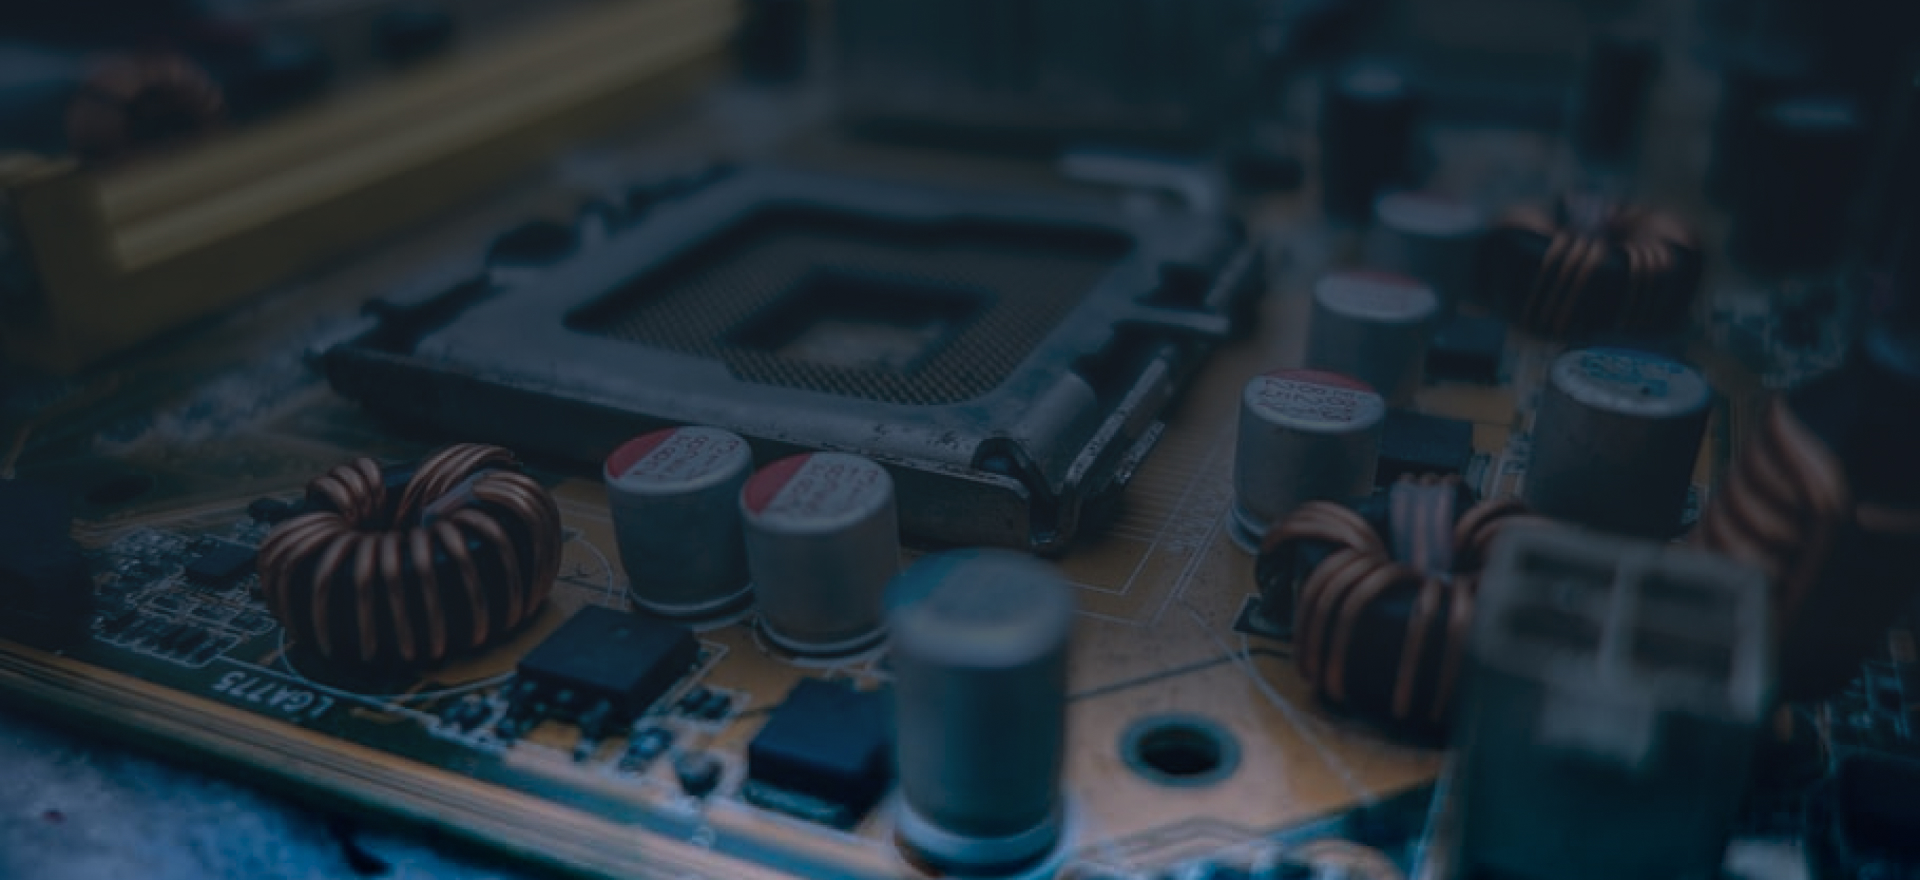
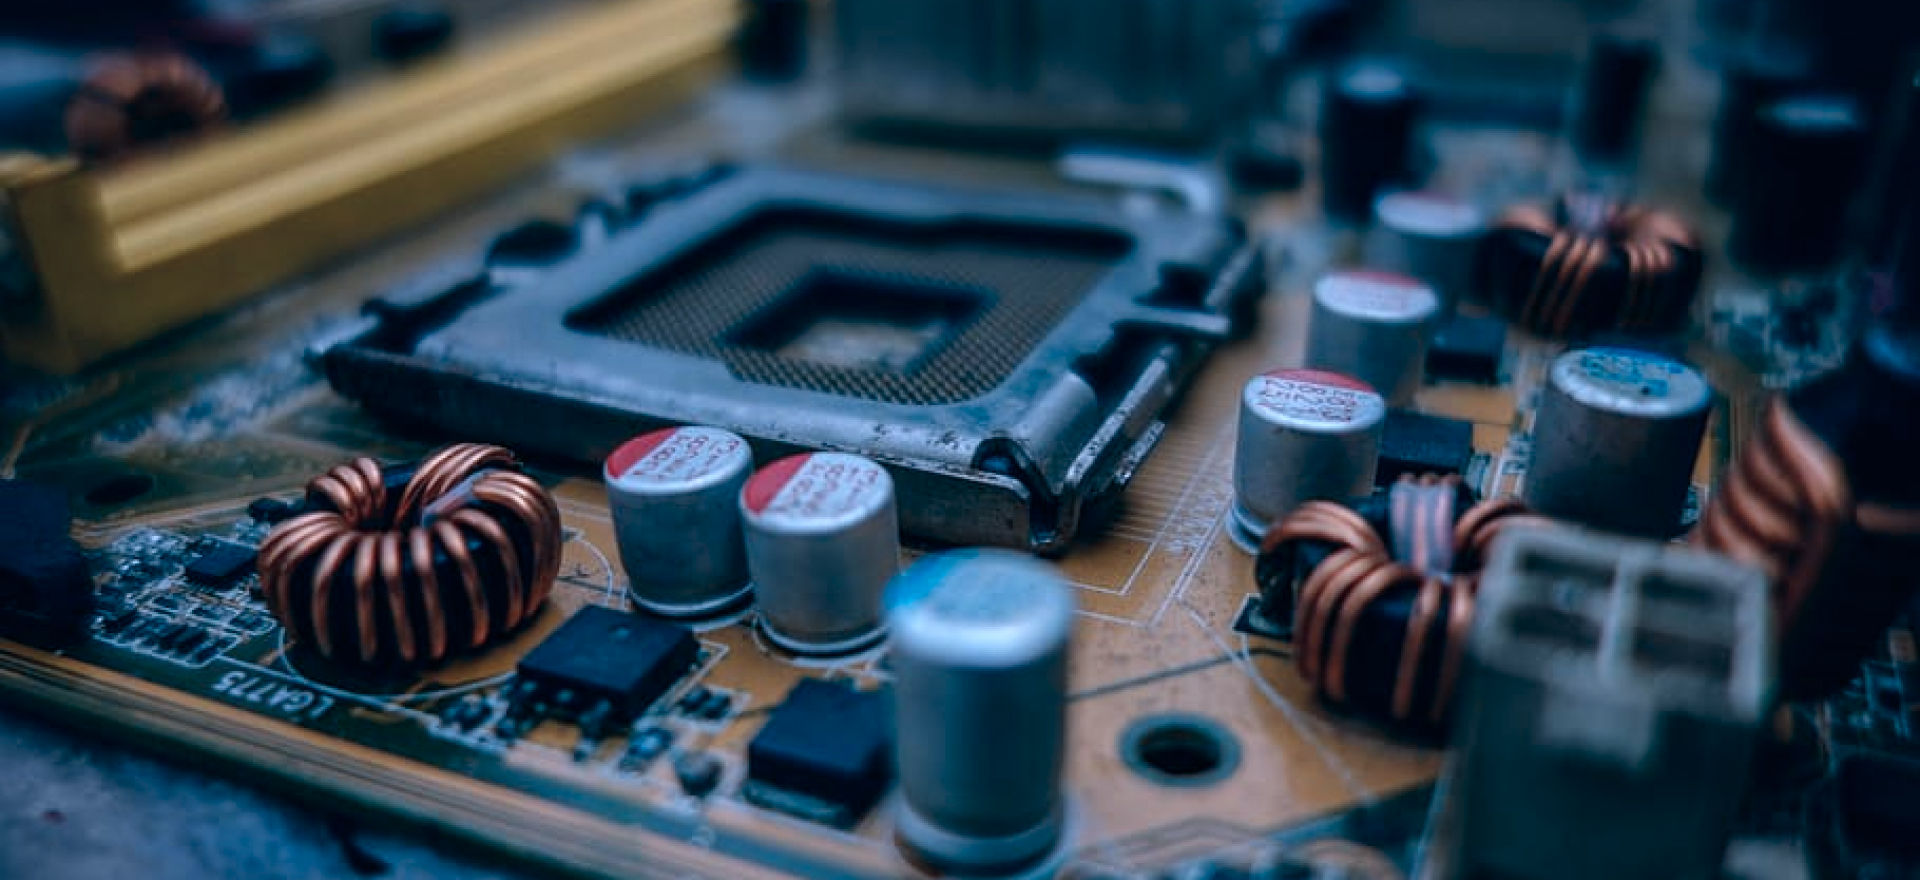
стили главного блока

diff --git a/source/sass/blocks/promo.scss b/source/sass/blocks/promo.scss
@@ -1,0 +1,91 @@
+.promo {
+  background-color: $color-black-pearl;
+  background-image: $black-pearl-promo, url("../img/back/promo-desktop.jpg");
+  background-size: cover;
+  background-repeat: no-repeat;
+  background-position: center;
+  color: $color-alice-blue;
+  padding-top: 185px;
+  padding-bottom: 280px;
+  position: relative;
+  top: -120px;
+
+  @include retina {
+    background-image: $black-pearl-promo, url("../img/back/promo-desktop@2x.jpg");
+  }
+
+  h2 {
+    margin: 0;
+    margin-bottom: 40px;
+    font-family: 'Roboto Condensed';
+    font-weight: 700;
+    font-size: 80px;
+    line-height: 94px;
+    letter-spacing: 0.07em;
+    text-transform: uppercase;
+  }
+
+  p {
+    margin: 0;
+    margin-bottom: 40px;
+    width: 680px;
+    font-size: 22px;
+    line-height: 34px;
+  }
+
+  .promo__question {
+    margin: 0;
+  }
+}
+
+@include vp-1023 {
+  .promo {
+    background-image: $black-pearl-promo, url("../img/back/promo-tablet.jpg");
+    padding-top: 180px;
+    padding-bottom: 205px;
+    top: -100px;
+    margin-bottom: -20px;
+
+    @include retina {
+      background-image: $black-pearl-promo, url("../img/back/promo-tablet@2x.jpg");
+    }
+
+    h2 {
+      margin-bottom: 20px;
+      font-size: 64px;
+      line-height: 75px;
+    }
+
+    p {
+      margin-bottom: 50px;
+      width: auto;
+    }
+  }
+}
+
+@include vp-767 {
+  .promo {
+    background-image: $black-pearl-promo, url("../img/back/promo-mobile.jpg");
+    padding-top: 150px;
+    padding-bottom: 190px;
+    top: -70px;
+
+    @include retina {
+      background-image: $black-pearl-promo, url("../img/back/promo-mobile@2x.jpg");
+    }
+
+    h2 {
+      font-size: 36px;
+      line-height: 42px;
+    }
+
+    p {
+      font-size: 14px;
+      line-height: 22px;
+    }
+
+    .promo__question {
+      width: 100%;
+    }
+  }
+}

diff --git a/source/sass/blocks/btn.scss b/source/sass/blocks/btn.scss
@@ -1,6 +1,6 @@
 .btn {
   display: inline-block;
-  padding: 10px 15px;
+  padding: 9px 14px;
   margin: 10px 0;
   cursor: pointer;
   user-select: none;
@@ -37,6 +37,7 @@
   }
 
   &--blue-light {
+    padding: 14px 24px;
     font-size: 18px;
     line-height: 21px;
     border-color: $color-deepsky-blue;
@@ -96,5 +97,16 @@
   &:disabled {
     opacity: 0.5;
     pointer-events: none;
+  }
+}
+
+
+@include vp-767 {
+  .btn {
+    &--blue-light {
+      padding: 9px;
+      font-size: 14px;
+      line-height: 16px;
+    }
   }
 }

diff --git a/source/sass/variables.scss b/source/sass/variables.scss
@@ -18,8 +18,9 @@ $color-black-pearl-transparent: rgba(4, 20, 39, 0.15);
 
 // Gradient
 // фон хедера
-$black-pearl-to-bottom: linear-gradient(180deg, #041827 84.9%, rgba(4, 24, 39, 0) 100%);
-
+$black-pearl-header: linear-gradient(180deg, #041827 84.9%, rgba(4, 24, 39, 0) 100%);
+// фон главного экрана
+$black-pearl-promo: linear-gradient(180deg, rgba(25, 32, 36, 0.7) 71.72%, rgba(25, 32, 36, 0) 100%);
 
 // Typography
 // ---------------------------------

diff --git a/source/sass/blocks/page-header.scss b/source/sass/blocks/page-header.scss
@@ -2,10 +2,11 @@
   min-height: 120px;
   padding-top: 30px;
   padding-bottom: 35px;
-  background-image: $black-pearl-to-bottom;
+  background-image: $black-pearl-header;
   color: $color-alice-blue;
   position: sticky;
   top: 0;
+  z-index: 1;
 
   @include vp-1023 {
     min-height: 100px;

diff --git a/source/sass/style.scss b/source/sass/style.scss
@@ -26,6 +26,7 @@
 @import "blocks/form";
 @import "blocks/main-nav";
 @import "blocks/logotype";
+@import "blocks/promo";
 // @import "blocks/modal";
 
 // ---------------------------------
